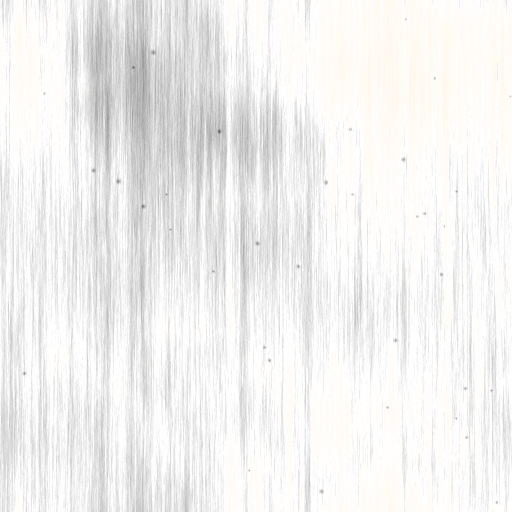
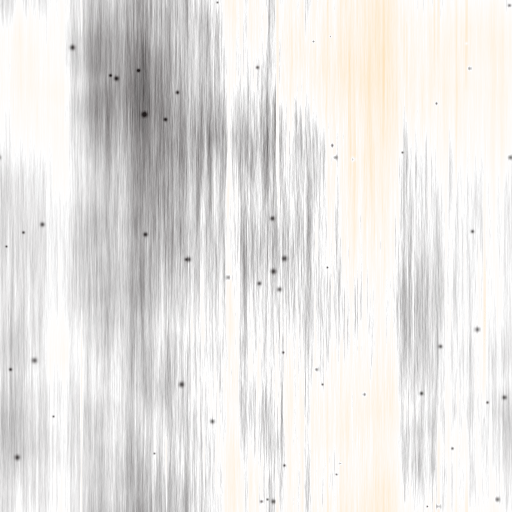
Cast the desk's relief and make its brushing show
At 1x the console's fans, ziggurats and panel motifs read as flat icons
with crisp edges, and the patina tile's one-texel brushing averaged away
to nothing outside a 2x crop.

The relief is now drawn once and turned into metal by an SVG filter in
user units: corners worn round, a broken highlight on the shoulders that
face the lamps, shade on the far ones, a few pits, and a soft shadow on
the ground. The patina tile is re-baked with brushing two to six texels
wide, heavier in some passes, a few long scratches and more pits, and it
is laid at twice the size. The top plane takes the tile turned a quarter
and foreshortened, so its brushing lies flat along the console, and each
pilaster and panel takes its own shifted copy by hash. Hit surfaces are
unchanged.

diff --git a/static/js/desk.js b/static/js/desk.js
@@ -99,12 +99,66 @@ function screw(g, cx, cy, r, id) {
   add(g, 'path', { d: 'M' + n2(cx - dx) + ' ' + n2(cy - dy + 0.35) + 'L' + n2(cx + dx) + ' ' + n2(cy + dy + 0.35) }, 'dk-slot-lit');
 }
 
-/* Cast relief, drawn the way the gates' archivolts are: a lit copy up-left,
-   a shadow copy down-right, then the body over both. */
+/* Cast relief. The motif is drawn once, flat, and the dk-cast filter turns
+   it into metal: the silhouette is worn round (blur, then a soft threshold,
+   so no corner is sharper than a cloth leaves it), the shoulders that face
+   the lamps catch it in a broken line, the far shoulders roll into shade,
+   and the form throws a soft shadow on the ground it was cast on. The
+   filter's primitives work in user units, so the relief keeps its shape
+   at every scale and pixel ratio. The console never moves, so a filter
+   here is painted once. */
 function relief(g, d, body) {
-  add(g, 'path', { d: d, transform: 'translate(-.45 -.55)' }, 'dk-rl-lit');
-  add(g, 'path', { d: d, transform: 'translate(.7 .9)' }, 'dk-rl-sh');
+  g.setAttribute('filter', U('dk-cast'));
   add(g, 'path', { d: d }, body || 'dk-rl-body');
+}
+function castFilter(defs) {
+  var f = add(defs, 'filter', { id: 'dk-cast', x: '-8%', y: '-14%', width: '120%', height: '134%',
+                                'color-interpolation-filters': 'sRGB' });
+  // the worn silhouette
+  add(f, 'feGaussianBlur', { in: 'SourceAlpha', stdDeviation: 0.42, result: 'b' });
+  var ct = add(f, 'feComponentTransfer', { in: 'b', result: 'm0' });
+  add(ct, 'feFuncA', { type: 'linear', slope: 3.4, intercept: -1.2 });
+  add(f, 'feComposite', { in: 'm0', in2: 'SourceAlpha', operator: 'in', result: 'm' });
+  add(f, 'feComposite', { in: 'SourceGraphic', in2: 'm', operator: 'in', result: 'body' });
+  // pitting and rub: a fine casting grain that breaks the highlight
+  add(f, 'feTurbulence', { type: 'fractalNoise', baseFrequency: '0.32 0.5', numOctaves: 2, seed: 11, result: 'n' });
+  add(f, 'feColorMatrix', { in: 'n', type: 'matrix', result: 'wear',
+    values: '0 0 0 0 0  0 0 0 0 0  0 0 0 0 0  2.2 0 0 0 -0.3' });
+  // the lit shoulder (up and left, toward the lamps)
+  add(f, 'feOffset', { in: 'm', dx: 0.55, dy: 0.8, result: 'mo' });
+  add(f, 'feComposite', { in: 'm', in2: 'mo', operator: 'out', result: 'ul' });
+  add(f, 'feGaussianBlur', { in: 'ul', stdDeviation: 0.28, result: 'ulb' });
+  add(f, 'feFlood', { result: 'lc' }, 'dk-cast-lit');
+  add(f, 'feComposite', { in: 'lc', in2: 'ulb', operator: 'in', result: 'l0' });
+  add(f, 'feComposite', { in: 'l0', in2: 'wear', operator: 'in', result: 'l1' });
+  add(f, 'feComposite', { in: 'l1', in2: 'm', operator: 'in', result: 'lit' });
+  // a softer sheen across the whole top of each form
+  add(f, 'feOffset', { in: 'm', dx: 1.6, dy: 2.2, result: 'mo2' });
+  add(f, 'feComposite', { in: 'm', in2: 'mo2', operator: 'out', result: 'ul2' });
+  add(f, 'feGaussianBlur', { in: 'ul2', stdDeviation: 0.9, result: 'ul2b' });
+  add(f, 'feFlood', { result: 'sc' }, 'dk-cast-sheen');
+  add(f, 'feComposite', { in: 'sc', in2: 'ul2b', operator: 'in', result: 's0' });
+  add(f, 'feComposite', { in: 's0', in2: 'm', operator: 'in', result: 'sheen' });
+  // the far shoulder, rolling into shade
+  add(f, 'feOffset', { in: 'm', dx: -0.6, dy: -0.85, result: 'mo3' });
+  add(f, 'feComposite', { in: 'm', in2: 'mo3', operator: 'out', result: 'lr' });
+  add(f, 'feGaussianBlur', { in: 'lr', stdDeviation: 0.4, result: 'lrb' });
+  add(f, 'feFlood', { result: 'dc' }, 'dk-cast-shade');
+  add(f, 'feComposite', { in: 'dc', in2: 'lrb', operator: 'in', result: 'd0' });
+  add(f, 'feComposite', { in: 'd0', in2: 'm', operator: 'in', result: 'shade' });
+  // pits in the body itself
+  add(f, 'feColorMatrix', { in: 'n', type: 'matrix', result: 'pit',
+    values: '0 0 0 0 0  0 0 0 0 0  0 0 0 0 0  0 -7 0 0 2.6' });
+  add(f, 'feFlood', { result: 'pc' }, 'dk-cast-pit');
+  add(f, 'feComposite', { in: 'pc', in2: 'pit', operator: 'in', result: 'p0' });
+  add(f, 'feComposite', { in: 'p0', in2: 'm', operator: 'in', result: 'pits' });
+  // the shadow the form throws on its ground
+  add(f, 'feOffset', { in: 'b', dx: 0.75, dy: 1.05, result: 'so' });
+  add(f, 'feGaussianBlur', { in: 'so', stdDeviation: 0.35, result: 'sob' });
+  add(f, 'feFlood', { result: 'oc' }, 'dk-cast-oil');
+  add(f, 'feComposite', { in: 'oc', in2: 'sob', operator: 'in', result: 'drop' });
+  var mg = add(f, 'feMerge');
+  ['drop', 'body', 'sheen', 'pits', 'shade', 'lit'].forEach(function (r) { add(mg, 'feMergeNode', { in: r }); });
 }
 
 /* Motifs, each inside a box (x, y, w, h). */
@@ -201,9 +255,24 @@ function buildDefs(svg) {
   grad(defs, 'dk-ao-down', false, { x1: 0, y1: 0, x2: 0, y2: 1 }, [0, 1]);
   grad(defs, 'dk-ao-right', false, { x1: 0, y1: 0, x2: 1, y2: 0 }, [0, 1]);
   grad(defs, 'dk-glint', true, { cx: 0.5, cy: 0.5, r: 0.5 }, [0, 0.4, 1]);
-  pattern(defs, 'dk-patina', '/static/assets/tex/patina-statuary.webp', 118);
+  pattern(defs, 'dk-patina', '/static/assets/tex/patina-statuary.webp', 272);
+  // Each separately cast piece (a pilaster, a panel) was dressed on its own,
+  // so its brushing and patina do not run on from the field: the same tile,
+  // shifted and turned end for end by hash.
+  ['a', 'b', 'c', 'd'].forEach(function (k, i) {
+    var id = 'desk-cast-piece-' + k;
+    var tx = Math.round(rnd(id, 1) * 272), ty = Math.round(rnd(id, 2) * 272);
+    pattern(defs, 'dk-patina-' + k, '/static/assets/tex/patina-statuary.webp', 272)
+      .setAttribute('patternTransform', 'translate(' + tx + ' ' + ty + ')' + (i % 2 ? ' scale(1 -1)' : ''));
+  });
+  // The top was dressed along its length: the same tile turned a quarter,
+  // and foreshortened, so its brushing lies flat in the plane instead of
+  // standing up in the screen.
+  pattern(defs, 'dk-patina-top', '/static/assets/tex/patina-statuary.webp', 272)
+    .setAttribute('patternTransform', 'translate(0 ' + TOP_BACK + ') scale(1 .32) rotate(90)');
   pattern(defs, 'dk-marble', '/static/assets/tex/stone-portoro.webp', 190);
   pattern(defs, 'dk-gilt', '/static/assets/tex/grain-gilt.webp', 60);
+  castFilter(defs);
   return defs;
 }
 
@@ -294,7 +363,7 @@ function buildConsole(q) {
     var ix0 = x0 + 3.2, ix1 = x1 - 3.2, iy0 = y0 + 3.2, iy1 = y1 - 3.2;
     add(q, 'rect', { x: ix0 + 0.8, y: iy0 + 1, width: ix1 - ix0, height: iy1 - iy0 }, 'dk-cast-sh');
     add(q, 'rect', { x: ix0, y: iy0, width: ix1 - ix0, height: iy1 - iy0 }, 'dk-panel');
-    add(q, 'rect', { x: ix0, y: iy0, width: ix1 - ix0, height: iy1 - iy0 }, 'dk-tex');
+    add(q, 'rect', { x: ix0, y: iy0, width: ix1 - ix0, height: iy1 - iy0 }, 'dk-tex dk-tex-' + (x0 < 180 ? 'a' : 'b'));
     add(q, 'path', { d: 'M' + n2(ix0) + ' ' + n2(iy1) + 'V' + n2(iy0) + 'H' + n2(ix1) }, 'dk-edge-lit');
     var g = add(q, 'g', null, 'dk-relief');
     var d;
@@ -310,7 +379,7 @@ function buildConsole(q) {
     var id = 'desk-pilaster-' + k, pw = 32;
     add(q, 'rect', { x: px + pw, y: FRZ_B, width: 5, height: BODY_B - FRZ_B }, 'dk-ao dk-ao-r');
     add(q, 'rect', { x: px, y: FRZ_B, width: pw, height: BODY_B - FRZ_B }, 'dk-face');
-    add(q, 'rect', { x: px, y: FRZ_B, width: pw, height: BODY_B - FRZ_B }, 'dk-tex');
+    add(q, 'rect', { x: px, y: FRZ_B, width: pw, height: BODY_B - FRZ_B }, 'dk-tex dk-tex-' + (k ? 'd' : 'c'));
     add(q, 'path', { d: 'M' + px + ' ' + BODY_B + 'V' + FRZ_B }, 'dk-edge-lit');
     var nf = rnd(id) < 0.5 ? 3 : 4, gap = 2.6, fw = (pw - 10 - (nf - 1) * gap) / nf;
     for (var i = 0; i < nf; i++) {

diff --git a/static/css/palace-desk.css b/static/css/palace-desk.css
@@ -92,7 +92,7 @@
 .dk-frieze-1 { stop-color: var(--sb-1); }
 .dk-rl-0 { stop-color: var(--sb-4); }
 .dk-rl-1 { stop-color: var(--sb-3); }
-.dk-rl-2 { stop-color: var(--sb-2); }
+.dk-rl-2 { stop-color: var(--sb-1); }
 .dk-face-0 { stop-color: var(--sb-3); }
 .dk-face-1 { stop-color: var(--sb-2); }
 .dk-face-2 { stop-color: var(--sb-2); }
@@ -108,8 +108,8 @@
 .dk-panel-3 { stop-color: var(--sb-band); }
 .dk-panel-4 { stop-color: var(--sb-2); }
 .dk-panel-5 { stop-color: var(--sb-0); }
-.dk-pmotif-0 { stop-color: var(--sb-4); }
-.dk-pmotif-1 { stop-color: var(--sb-2); }
+.dk-pmotif-0 { stop-color: var(--sb-3); }
+.dk-pmotif-1 { stop-color: var(--sb-1); }
 .dk-flute-0 { stop-color: var(--sb-oil); }
 .dk-flute-1 { stop-color: var(--sb-1); }
 .dk-flute-2 { stop-color: var(--sb-3); }
@@ -183,11 +183,15 @@
 .quadrant .dk-cshadow { fill: url(#dk-cshadow); }
 .quadrant .dk-occl { fill: url(#dk-occl); }
 .quadrant .dk-top { fill: url(#dk-top); }
-.quadrant .dk-top-tex { fill: url(#dk-patina); opacity: calc(var(--sb-tex) * 0.6); }
+.quadrant .dk-top-tex { fill: url(#dk-patina-top); opacity: calc(var(--sb-tex) * 0.8); }
 .quadrant .dk-topspec { fill: url(#dk-topspec); }
 .quadrant .dk-arris-back { fill: none; stroke: var(--sb-5); stroke-width: 0.7; opacity: 0.55; }
 .quadrant .dk-arris-side { fill: none; stroke: var(--sb-4); stroke-width: 0.6; opacity: 0.5; }
 .quadrant .dk-tex { fill: url(#dk-patina); opacity: var(--sb-tex); }
+.quadrant .dk-tex-a { fill: url(#dk-patina-a); }
+.quadrant .dk-tex-b { fill: url(#dk-patina-b); }
+.quadrant .dk-tex-c { fill: url(#dk-patina-c); }
+.quadrant .dk-tex-d { fill: url(#dk-patina-d); }
 .quadrant .dk-cap { fill: url(#dk-cap); }
 .quadrant .dk-leaf-nose { fill: url(#dk-leafh); }
 .quadrant .dk-leaf-hip { fill: url(#dk-leafv); }
@@ -200,8 +204,14 @@
 .quadrant .dk-dentil-top { fill: var(--sb-5); opacity: 0.6; }
 .quadrant .dk-fillet { fill: var(--sb-oil); opacity: 0.85; }
 .quadrant .dk-frieze { fill: url(#dk-frieze); }
-.quadrant .dk-rl-lit { fill: var(--sb-rl-lit); }
-.quadrant .dk-rl-sh { fill: var(--sb-oil); opacity: 0.9; }
+/* The cast-relief filter's colours (desk.js castFilter): the lamp on the
+   near shoulders, a broad sheen over each form's top, shade on the far
+   shoulders, pits, and the shadow on the ground. */
+.dk-cast-lit { flood-color: var(--sb-rl-lit); flood-opacity: 1; }
+.dk-cast-sheen { flood-color: var(--sb-4); flood-opacity: 0.42; }
+.dk-cast-shade { flood-color: var(--sb-oil); flood-opacity: 0.8; }
+.dk-cast-pit { flood-color: var(--sb-oil); flood-opacity: 0.4; }
+.dk-cast-oil { flood-color: var(--sb-oil); flood-opacity: 0.9; }
 .quadrant .dk-rl-body { fill: url(#dk-rl); }
 .quadrant .dk-rl-panel { fill: url(#dk-pmotif); }
 .quadrant .dk-face { fill: url(#dk-face); }

diff --git a/scripts/desk_materials.py b/scripts/desk_materials.py
@@ -35,32 +35,53 @@ def save_rgba(name, rgb, a, q=86):
 
 def patina_statuary(n=512):
     """Statuary bronze: a chemical patina worn back by hands and cloths. The
-    brushing runs vertically (the faces were dressed top to bottom), the
-    patina lies unevenly in slow clouds, and the casting shows a few pits."""
+    brushing runs vertically (the faces were dressed top to bottom) at two
+    widths, heavier in some passes than others, with a few long scratches;
+    the patina lies unevenly in slow clouds, and the casting shows pits.
+
+    The tile is laid at about two texels to a screen pixel at 1x, so the
+    brushing has to live in streaks two to six texels wide to survive the
+    downsampling: the first bake's one-texel lines all but vanished."""
     from scipy.ndimage import gaussian_filter
-    brush = fbm(n, 201, 1.15, (1.0, 38.0)) * 0.65 + fbm(n, 202, 0.8, (1.0, 70.0)) * 0.35
-    # high-pass across the grain: the brushing is fine lines, not broad bands
-    brush = brush - gaussian_filter(brush, (0, 10), mode="wrap")
-    brush = brush / (np.abs(brush).max() + 1e-9)
+    fine = fbm(n, 201, 1.1, (1.0, 40.0))
+    fine = fine - gaussian_filter(fine, (0, 5), mode="wrap")
+    fine = fine / (np.abs(fine).max() + 1e-9)
+    broad = fbm(n, 202, 1.5, (1.0, 22.0))
+    broad = broad - gaussian_filter(broad, (0, 22), mode="wrap")
+    broad = broad / (np.abs(broad).max() + 1e-9)
+    # the dresser's passes: some strips were worked harder than others
+    passes = 0.55 + 0.9 * fbm(n, 207, 2.4, (1.0, 6.0))
+    brush = (fine * 0.5 + broad * 0.5) * passes
+    # a few long scratches, a texel or two wide, bright in their bed
+    rng = np.random.default_rng(208)
+    scr = np.zeros((n, n))
+    for _ in range(14):
+        x = rng.integers(0, n)
+        y0 = rng.integers(0, n)
+        ln = rng.integers(n // 6, n // 2)
+        w = rng.uniform(0.6, 1.3)
+        ys = np.arange(y0, y0 + ln) % n
+        prof = np.sin(np.linspace(0, np.pi, ln)) ** 0.6
+        for dx in (-1, 0, 1):
+            scr[ys, (x + dx) % n] = np.maximum(scr[ys, (x + dx) % n], prof * np.exp(-(dx * dx) / (2 * w * w)))
     cloud = fbm(n, 203, 2.6) - 0.5
-    blotch = np.clip((fbm(n, 204, 2.2) - 0.62) * 3.0, 0, 1)      # darker patina islands
-    rub = np.clip((fbm(n, 205, 2.8) - 0.58) * 2.6, 0, 1)         # hand-worn, lighter
-    rng = np.random.default_rng(206)
+    blotch = np.clip((fbm(n, 204, 2.2) - 0.6) * 3.0, 0, 1)       # darker patina islands
+    rub = np.clip((fbm(n, 205, 2.8) - 0.56) * 2.6, 0, 1)          # hand-worn, lighter
     pits = np.zeros((n, n))
-    for _ in range(36):
+    for _ in range(60):
         y, x = rng.integers(0, n, 2)
-        r = rng.uniform(0.6, 1.6)
-        yy, xx = np.ogrid[-3:4, -3:4]
+        r = rng.uniform(0.7, 1.9)
+        yy, xx = np.ogrid[-4:5, -4:5]
         spot = np.exp(-(xx * xx + yy * yy) / (2 * r * r))
-        ys, xs = (np.arange(y - 3, y + 4) % n), (np.arange(x - 3, x + 4) % n)
+        ys, xs = (np.arange(y - 4, y + 5) % n), (np.arange(x - 4, x + 5) % n)
         pits[np.ix_(ys, xs)] = np.maximum(pits[np.ix_(ys, xs)], spot)
-    g = 0.5 + brush * 0.13 + cloud * 0.18 - blotch * 0.12 + rub * 0.07 - pits * 0.18
+    g = 0.5 + brush * 0.24 + cloud * 0.30 - blotch * 0.17 + rub * 0.11 + scr * 0.16 - pits * 0.26
     g = np.clip(g, 0, 1)
     d = g - 0.5
     light = np.array([255, 226, 188], dtype=np.float64)
     dark = np.array([8, 4, 2], dtype=np.float64)
     rgb = np.where(d[..., None] > 0, light[None, None, :], dark[None, None, :])
-    a = np.clip(np.abs(d) * 1.9, 0, 0.85)
+    a = np.clip(np.abs(d) * 2.1, 0, 0.9)
     return rgb, a
 
 
